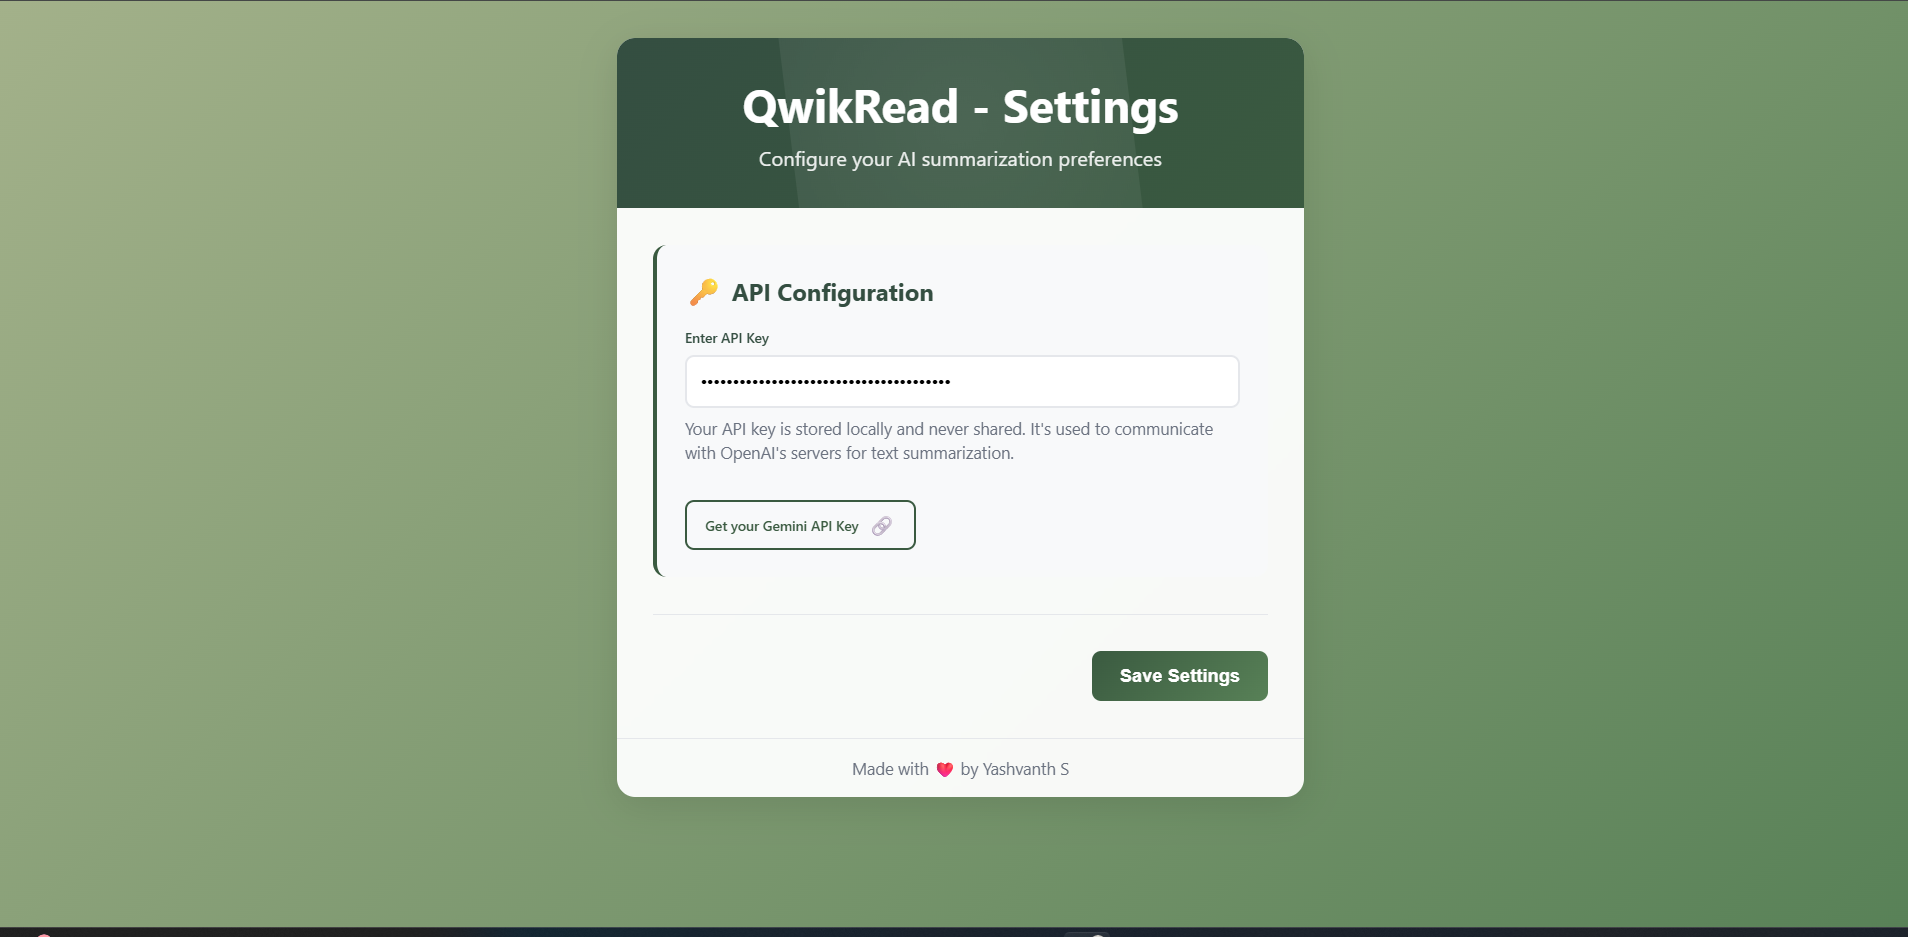
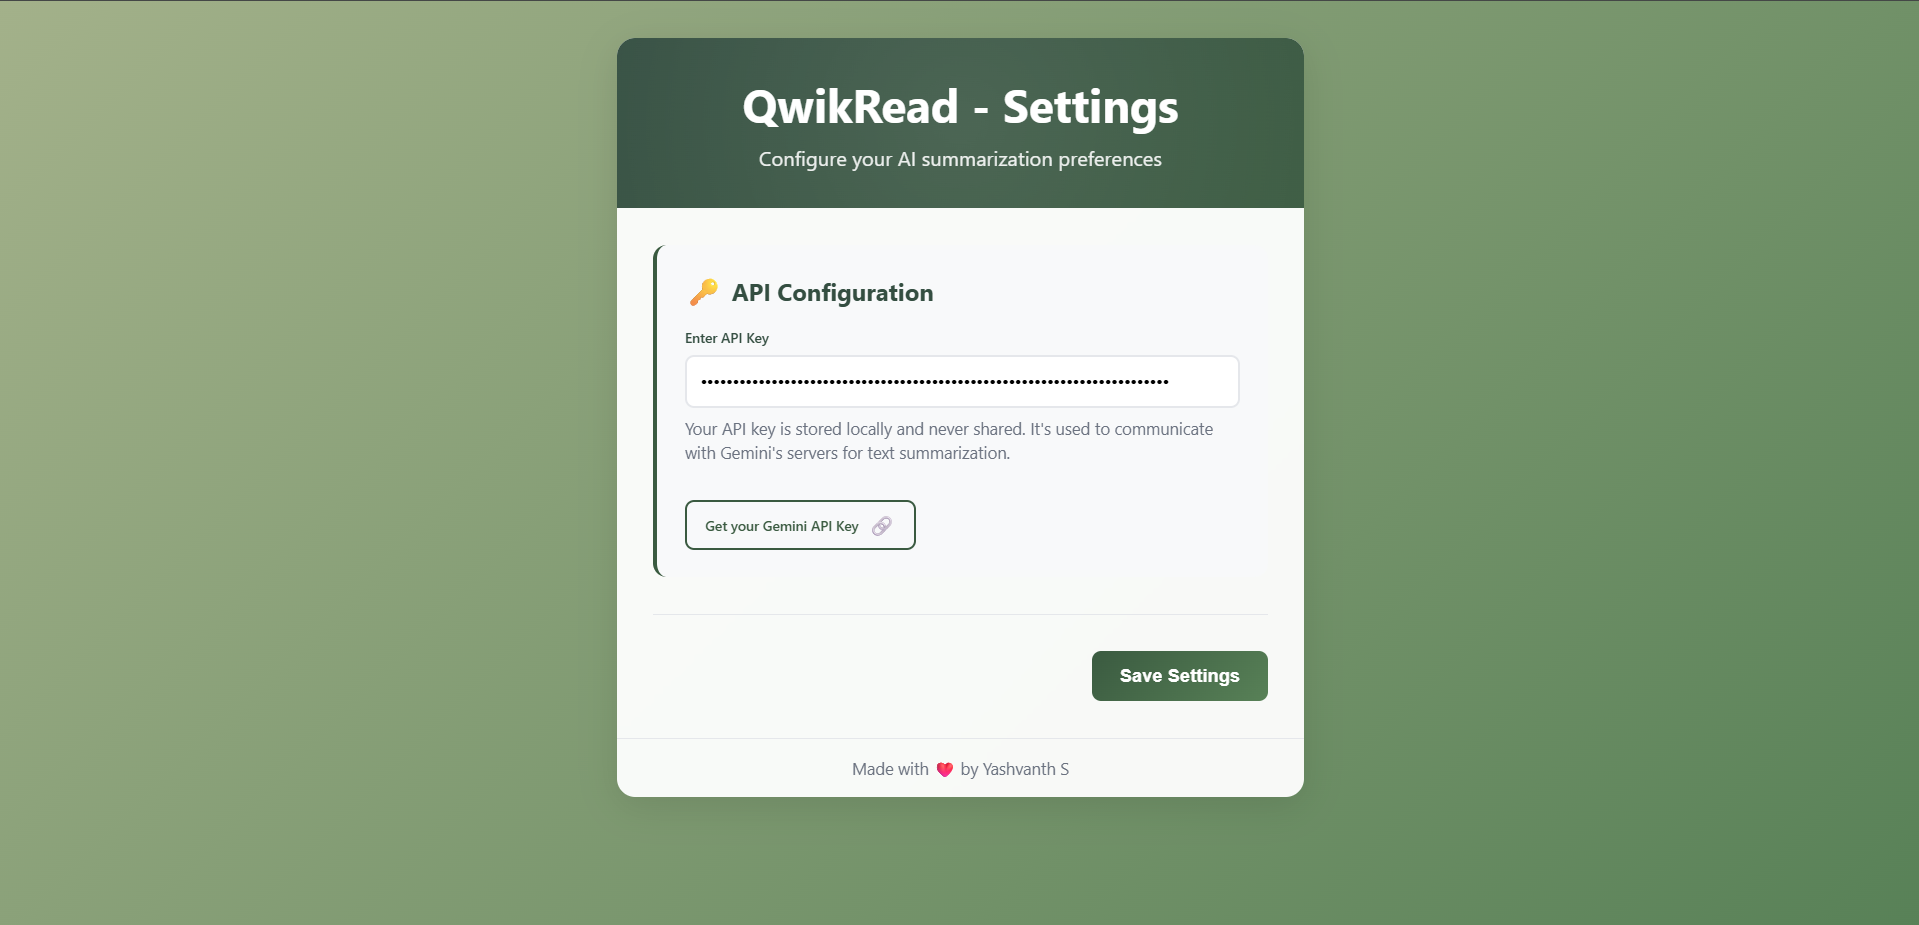
update screenshots and README.md

diff --git a/README.md b/README.md
@@ -1,97 +1,109 @@
-# QwikRead – AI Article Summarizer Chrome Extension
+# 🌐 QwikRead – AI Article Summarizer Chrome Extension
 
-> QwikRead is a lightweight, AI-powered Chrome extension that helps you summarize articles instantly while browsing. With just one click, it extracts the content from the page you're on and delivers a concise summary—tailored to your preferred format.
+> **QwikRead** is a lightweight, AI-powered Chrome extension that instantly summarizes articles with a single click. It uses [OpenRouter](https://openrouter.ai) with Google’s Gemini 2 Flash model to deliver clean, fast, and context-aware summaries—right in your browser.
 
 ---
 
 ## 🚀 Features
 
--Summarize any article directly from your browser
--Choose between Brief, Detailed, Bullet Points, or Headlines
--Uses Google Gemini 1.5 Flash API for fast, intelligent summaries
--Clean, responsive popup UI with copy functionality
--Privacy-focused: your data stays on your device
+- 📰 Summarize any article on the web instantly
+- ✍ Choose from: **Brief**, **Detailed**, **Bulleted**, or **Headlines-only** formats
+- ⚡ Powered by **Google Gemini 1.5 Flash** via **OpenRouter API**
+- 🧠 AI summaries with customizable temperature and length
+- 📋 One-click **Copy** to Clipboard
+- 🔒 Fully local: No user data is sent anywhere
 
 ---
 
-## ⚙ Technologies Used
+## 🛠 Built With
 
-- HTML, CSS
-- Vanilla JavaScript
-- Chrome Extensions API (Manifest V3)
-- Google Gemini API (v1beta, model: `gemini-1.5-flash`)
+- HTML, CSS, JavaScript
+- Chrome Extensions API (**Manifest v3**)
+- [OpenRouter.ai](https://openrouter.ai) API (model: `google/gemini-1.5-flash`)
 
 ---
 
-## 🛠 Setup & Installation
+## ⚙ Setup Instructions
 
-1. **Clone the repository**
+### 1. Clone the Repository
 
 ```bash
 git clone https://github.com/YOUR_USERNAME/qwikread-ai-extension.git
 cd qwikread-ai-extension
 ```
 
-2. **Get a Gemini API Key**
+---
 
-   - Visit [Google AI Studio](https://makersuite.google.com/app/apikey)
-   - Create and copy your free API key
+### 2. Get an OpenRouter API Key
 
-3. **Load into Chrome**
-
-   - Go to `chrome://extensions`
-   - Enable **Developer Mode**
-   - Click **"Load unpacked"** and select the project folder
-
-4. **Set your API Key**
-   - Click the extension icon → **Options**
-   - Paste your Gemini API key and save
+- Visit [https://openrouter.ai](https://openrouter.ai)
+- Sign in and generate a free API key
 
 ---
 
-## 🧪 Usage
+### 3. Load the Extension into Chrome
 
-1. Navigate to any blog/article/webpage
-2. Click on the **QwikRead** Chrome extension
-3. Choose your summary type (e.g., Brief, Bulleted, Detailed, Headlines only)
-4. Click **Summarize** ✨
-5. Click **Copy** to save it to clipboard
+1. Go to `chrome://extensions`
+2. Enable **Developer mode**
+3. Click **"Load unpacked"**
+4. Select the `qwikread-ai-extension` folder
 
 ---
 
-## 🔐 Secure API Storage
+### 4. Set Up the API Key
 
-QwikRead stores your Gemini API key using `chrome.storage.sync` – it never exposes your key in code or UI.
+- Click the extension icon → **Options**
+- Paste your OpenRouter API key and click **Save**
+
+---
+
+## 🧪 How to Use
+
+1. Open any article or blog post
+2. Click the **QwikRead** extension icon
+3. Choose your desired summary format:
+   - Brief (3 lines)
+   - Detailed (5–7 lines)
+   - Bulleted points
+   - Headlines (all caps)
+4. Click **Summarize** ✅
+5. Click **Copy** to grab the summary text to clipboard
+
+---
+
+## 🔐 Security & Privacy
+
+- Your API key is securely stored via `chrome.storage.sync`
+- No article text or user info is logged or stored
+- Entire processing happens client-side + OpenRouter (no middle server)
+
+---
+
+## 🖼 Screenshots
+
+![summary](screenshots/summary_generated.png)
+![options](screenshots/options_page.png)
+![popup_in_browser](screenshots/sample_popup.png)
+![popup](screenshots/full_popup_screen.png)
 
 ---
 
 ## 📄 License
 
-This project is licensed under the [MIT License](LICENSE).
+This project is licensed under the [MIT License](./LICENSE).
 
 ---
 
 ## 🙌 Acknowledgements
 
-- [Google AI Studio](https://makersuite.google.com/)
-- [Chrome Extensions Docs](https://developer.chrome.com/docs/extensions/)
+- [OpenRouter](https://openrouter.ai) – AI API Gateway
+- [Google Gemini](https://deepmind.google/technologies/gemini/)
+- [Chrome Extensions Documentation](https://developer.chrome.com/docs/extensions/)
 
 ---
 
-## 📸 Screenshots
+## ⭐ Show Your Support
 
-![Options](screenshots/options_page.png)
-
-![Popup](screenshots/popup_page.png)
-
----
-
-This project is licensed under the [MIT License](./LICENSE).
-
----
-
-## ⭐ Show Your Support
-
-If you find this project helpful, feel free to ⭐ the repo and share it!
+If you like this project, please consider giving it a ⭐ on GitHub and sharing it with friends!
 
 ---
